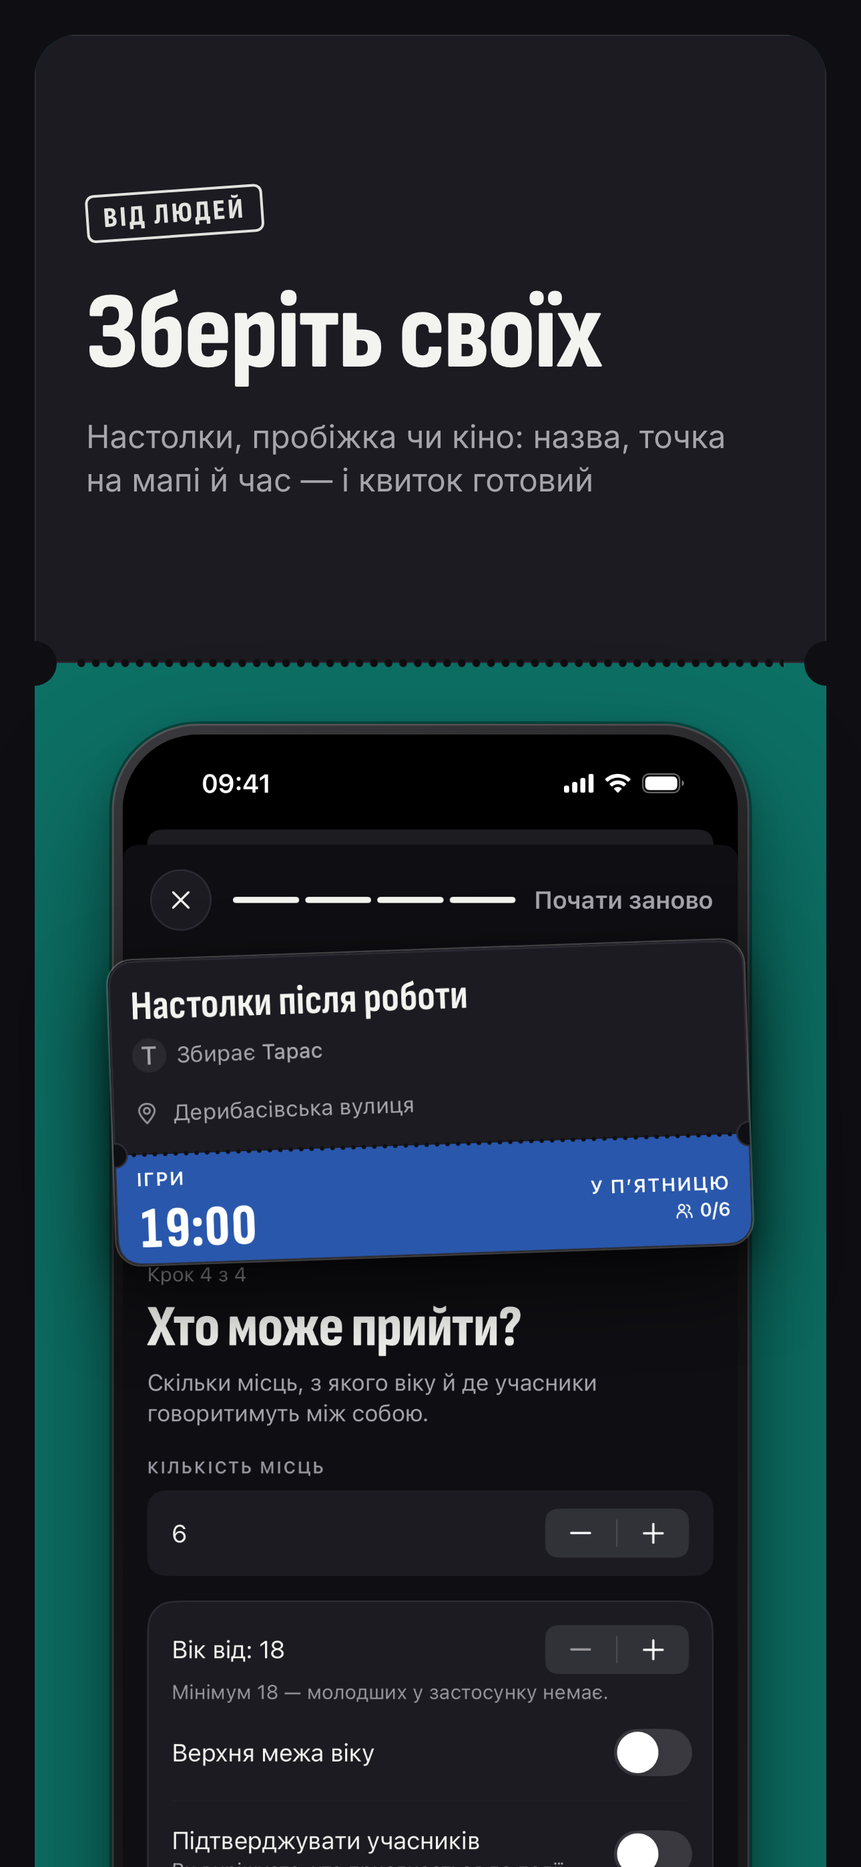
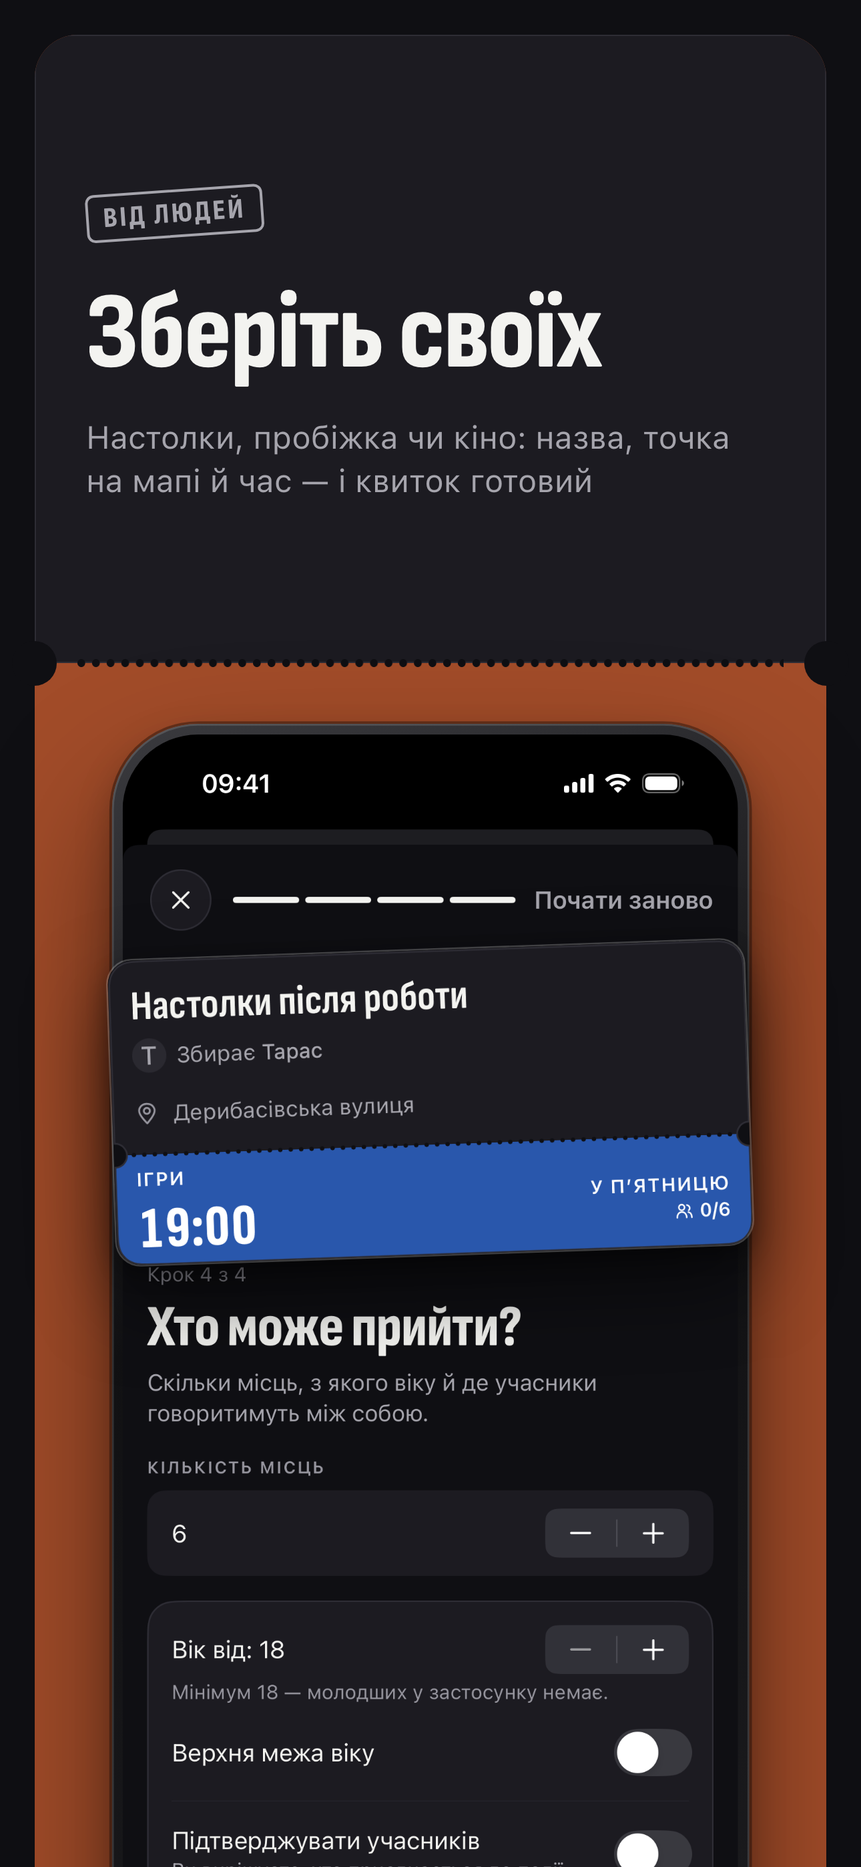
fix(store): слайди сторів за дизайн-системою — шрифт, корінці, штамп
- Підзаголовки системним гротеском платформи, як у застосунку: SF Pro для App Store,
  Roboto (з Android SDK) для Play, замість Inter.
- Корінець слайда — колір жанру показаної події (стендап/екскурсія на мапі, мистецтво
  на головній, музика на безпеці); слайди про людей і банер Play — «Зустрічі».
- Штамп-підпис нейтральним тоном ink-secondary, як TicketStamp. Виняток у DESIGN.md
  уточнено.

diff --git a/tools/store_shots.py b/tools/store_shots.py
@@ -1,8 +1,8 @@
 """Збирає графіку для сторів із сирих екранів у store/screens/.
 
 Світ «Корінець» (DESIGN.md): кожен слайд — квиток на нічному полотні. Угорі, на квитку, штамп і заголовок
-Sofia Sans Condensed; за перфорацією — корінець кольору жанру, з якого виростає телефон, а над ним «винесений»
-шматок справжнього UI. Рендерить headless Chrome. Перезняти екрани після зміни UI (див. store/listing.md),
+Sofia Sans Condensed, підзаголовок системним гротеском платформи; за перфорацією — корінець кольору жанру показаної
+події, з якого виростає телефон, а над ним «винесений» шматок справжнього UI. Рендерить headless Chrome. Перезняти екрани після зміни UI (див. store/listing.md),
 оновити координати в SLIDES і запустити:
 
     python3 tools/store_shots.py
@@ -13,43 +13,49 @@ import tempfile
 
 ROOT = pathlib.Path(__file__).resolve().parent.parent
 SCREENS = ROOT / "store" / "screens"
-FONTS = ROOT / "site" / "fonts"  # Sofia Sans з вшитою українською кирилицею й Inter — ті самі, що на сайті
+FONTS = ROOT / "site" / "fonts"  # Sofia Sans з вшитою українською кирилицею — та сама, що на сайті й у застосунку
+# Решта тексту — системний гротеск платформи, як у застосунку: SF Pro з macOS для App Store, Roboto з Android SDK для Play.
+SYSTEM_FONT = {
+    "ios": pathlib.Path("/System/Library/Fonts/SFNS.ttf"),
+    "and": next(pathlib.Path.home().glob("Library/Android/sdk/platforms/*/data/fonts/Roboto-Regular.ttf"), None),
+}
 ZOOM = 1.12
 CHROME = "/Applications/Google Chrome.app/Contents/MacOS/Google Chrome"
 
 # Сирі розміри екранів: iPhone 16 Pro і Android-емулятор з `wm size 1080x2400`.
 RAW = {"ios": (1206, 2622), "and": (1080, 2400)}
 
-# Перші три слайди видно в пошуку стору — на них головні гачки. stub — колір корінця (`cat-*-stub`), підібраний так,
-# щоб винесений шматок із власним корінцем не зливався з тлом. ios/android: (x0, y0, x1, y1, радіус, нахил) у пікселях
+# Перші три слайди видно в пошуку стору — на них головні гачки. stub — колір корінця (`cat-*-stub`), як у застосунку:
+# жанр події, яку показує слайд (рядок або {платформа: колір}, коли події різні); слайди про людей — «Зустрічі».
+# ios/android: (x0, y0, x1, y1, радіус, нахил) у пікселях
 # сирого екрана — шматок UI, збільшений у ZOOM разів; якщо його місце нижче краю слайда, він піднімається у видиму частину.
 SLIDES = [
     dict(
-        key="map", stub="#6041B1",
+        key="map", stub={"ios": "#8D6A11", "and": "#54701B"},  # стендап / екскурсія на картці
         stamp="Афіша на мапі", title="Є куди.<br>Буде з ким.",
         sub="Концерти, вистави й зустрічі Києва, Львова, Одеси, Дніпра й Харкова — на одній мапі",
         ios=(46, 1906, 1042, 2244, 54, -2), android=(41, 1821, 952, 2115, 47, -2),
     ),
     dict(
-        key="detail", stub="#AC345E",
+        key="detail", stub="#A24C29",
         stamp="Шукаю компанію", title="Не хочете йти самі?",
         sub="На будь-яку подію з афіші можна зібрати невелику компанію. Кого взяти, вирішуєте ви",
         ios=(34, 2098, 1166, 2521, 66, 2), android=(31, 1945, 1046, 2315, 58, 2),
     ),
     dict(
-        key="create", stub="#0D7065",
+        key="create", stub="#A24C29",
         stamp="Від людей", title="Зберіть своїх",
         sub="Настолки, пробіжка чи кіно: назва, точка на мапі й час — і квиток готовий",
         ios=(46, 454, 1158, 986, 42, -2), android=(41, 251, 1037, 716, 37, -2),
     ),
     dict(
-        key="home", stub="#2957AC",
+        key="home", stub="#AC345E",  # «Kyiv Modern-Ballet», мистецтво
         stamp="У місті", title="Куди піти — за хвилину",
         sub="Сотні подій із квиткових сервісів: концерти, стендап, вистави й виставки",
         ios=(46, 483, 1002, 1566, 54, 1.5), android=(41, 240, 970, 1185, 47, 1.5),
     ),
     dict(
-        key="safety", stub="#376E33",
+        key="safety", stub="#6041B1",  # концерт у філармонії
         stamp="Безпека", title="Укриття поруч&nbsp;— ще до виходу",
         sub="Найближчі укриття й час до комендантської біля кожної події. Укриття — поки що для Києва",
         ios=(47, 1297, 1157, 2048, 42, -1.5), android=(41, 1174, 1037, 1833, 37, -1.5),
@@ -65,15 +71,16 @@ TARGETS = [
 ]
 
 
-def _inter(weight, subset, rng):
-    src = (FONTS / f"inter-{subset}-{weight}-normal.woff2").as_uri()
-    return f"@font-face{{font-family:Inter;font-weight:{weight};src:url({src});unicode-range:{rng}}}"
+def system_font_css(plat):
+    font = SYSTEM_FONT[plat]
+    if not font or not font.exists():
+        raise SystemExit(f"Нема системного шрифту для {plat}: {font} (SF Pro — macOS, Roboto — Android SDK platforms/*/data/fonts)")
+    # SF змінний: opsz 17 — текстовий оптичний розмір, як у застосунку для підписів.
+    opsz = ';font-variation-settings:"opsz" 17' if plat == "ios" else ""
+    return f"@font-face{{font-family:Sys;src:url({font.as_uri()})}}p{{font-optical-sizing:none{opsz}}}"
 
 
-FONT_CSS = "".join(
-    _inter(w, sub, rng) for w in (400, 500)
-    for sub, rng in (("cyrillic", "U+0400-045F,U+0490-0491"), ("latin", "U+0000-00FF,U+2000-206F"))
-) + f"""
+FONT_CSS = f"""
 @font-face{{font-family:Cond;font-weight:800;src:url({(FONTS / 'sofia-sans-condensed-800.woff2').as_uri()})}}
 @font-face{{font-family:XCond;font-weight:800;src:url({(FONTS / 'sofia-sans-extra-condensed-800.woff2').as_uri()})}}
 """
@@ -84,7 +91,7 @@ CSS = FONT_CSS + """
 *{margin:0;box-sizing:border-box}
 html{font-size:calc(var(--w)/100)}
 body{width:var(--w);height:var(--h);overflow:hidden;position:relative;background:var(--canvas);
- font-family:Inter,sans-serif;-webkit-font-smoothing:antialiased;color:var(--paper)}
+ font-family:Sys,sans-serif;-webkit-font-smoothing:antialiased;color:var(--paper)}
 .ticket{position:absolute;left:4rem;right:4rem;top:4rem;bottom:-12rem;border-radius:5rem;overflow:hidden;
  background:var(--stub)}
 .main{position:absolute;left:0;right:0;top:0;height:calc(var(--perf) - 4rem);background:var(--surface);
@@ -96,8 +103,8 @@ body{width:var(--w);height:var(--h);overflow:hidden;position:relative;background
 .head{position:absolute;left:10rem;right:10rem;top:4rem;height:calc(var(--perf) - 4rem);display:flex;
  flex-direction:column;justify-content:center;align-items:flex-start}
 .stamp{display:inline-block;font:800 var(--stampsize)/1 Cond,sans-serif;letter-spacing:.09em;text-transform:uppercase;
- color:var(--paper);padding:.9rem 1.7rem .8rem;border:.32rem solid var(--paper);border-radius:1rem;
- transform:rotate(-4deg);transform-origin:left center;opacity:.92;margin-bottom:var(--gap1)}
+ color:var(--ink2);padding:.9rem 1.7rem .8rem;border:.32rem solid var(--ink2);border-radius:1rem;
+ transform:rotate(-4deg);transform-origin:left center;margin-bottom:var(--gap1)}
 h1{font:800 var(--h1)/.94 Cond,sans-serif;letter-spacing:-.012em;text-wrap:balance;max-width:80rem}
 p{font-size:var(--sub);line-height:1.36;margin-top:var(--gap2);color:var(--ink2);text-wrap:pretty;max-width:76rem}
 .phone{position:absolute;left:50%;top:var(--phonetop);width:var(--phonew);transform:translateX(-50%);
@@ -123,7 +130,7 @@ def slide_html(s, plat, w, h):
     bezel = 1.25
     scale = (phone_w - 2 * bezel) / rw  # rem на сирий піксель
     vars_ = {
-        "--w": f"{w}px", "--h": f"{h}px", "--stub": s["stub"], "--perf": f"{perf}rem",
+        "--w": f"{w}px", "--h": f"{h}px", "--stub": s["stub"] if isinstance(s["stub"], str) else s["stub"][plat], "--perf": f"{perf}rem",
         "--stampsize": "3.3rem" if tall else "3rem",
         "--h1": "12.6rem" if tall else "10.4rem",
         "--sub": "3.7rem" if tall else "3.3rem",
@@ -154,7 +161,7 @@ def slide_html(s, plat, w, h):
     )
     style = ";".join(f"{name}:{value}" for name, value in vars_.items())
     hole = '<div class="hole"></div>' if plat == "and" else ""
-    return f"""<!doctype html><html style="{style}"><head><meta charset="utf-8"><style>{CSS}</style></head><body>
+    return f"""<!doctype html><html style="{style}"><head><meta charset="utf-8"><style>{system_font_css(plat)}{CSS}</style></head><body>
 <div class="ticket"><div class="main"></div></div>
 <div class="perf"></div><div class="notch" style="left:1.4rem"></div><div class="notch" style="right:1.4rem"></div>
 <div class="head"><div class="stamp">{s['stamp']}</div><h1>{s['title']}</h1><p>{s['sub']}</p></div>
@@ -163,11 +170,11 @@ def slide_html(s, plat, w, h):
 
 
 # Банер Play — горизонтальний квиток: слоган на квитку, за вертикальною перфорацією корінець із двома телефонами.
-FEATURE = """<!doctype html><html><head><meta charset="utf-8"><style>""" + FONT_CSS + """
+FEATURE = """<!doctype html><html><head><meta charset="utf-8"><style>{sys}""" + FONT_CSS + """
 *{margin:0;box-sizing:border-box}
 body{width:1024px;height:500px;overflow:hidden;position:relative;background:#0F0F13;color:#F3F3F0;
- font-family:Inter,sans-serif;-webkit-font-smoothing:antialiased}
-.ticket{position:absolute;inset:28px;border-radius:26px;overflow:hidden;background:#6041B1}
+ font-family:Sys,sans-serif;-webkit-font-smoothing:antialiased}
+.ticket{position:absolute;inset:28px;border-radius:26px;overflow:hidden;background:#A24C29}
 .main{position:absolute;left:0;top:0;bottom:0;width:560px;background:#1C1B21;box-shadow:0 0 0 1.5px #2E2D35 inset}
 .perf{position:absolute;left:583px;top:62px;bottom:62px;width:9px;
  background:radial-gradient(circle at 4.5px 4.5px,#0F0F13 4px,transparent 4.6px) 0 0/9px 16px repeat-y}
@@ -210,7 +217,8 @@ def main():
         for i, s in enumerate(SLIDES, 1):
             render(slide_html(s, plat, w, h), ROOT / "store" / folder / f"{prefix}{i:02d}.png", w, h)
     feature = (
-        FEATURE.replace("{icon}", (ROOT / "store" / "play" / "icon_512.png").as_uri())
+        FEATURE.replace("{sys}", system_font_css("and"))
+        .replace("{icon}", (ROOT / "store" / "play" / "icon_512.png").as_uri())
         .replace("{a}", (SCREENS / "and_map.png").as_uri())
         .replace("{b}", (SCREENS / "and_home.png").as_uri())
     )

diff --git a/store/listing.md b/store/listing.md
@@ -1,6 +1,6 @@
 # Тексти й графіка для сторів
 
-Графіку в цій теці збирає `python3 tools/store_shots.py` (HTML + headless Chrome, шрифти з `site/fonts/`) із сирих екранів у `screens/`. Світ «Корінець» (DESIGN.md): кожен слайд — квиток на нічному полотні, заголовок Sofia Sans Condensed, за перфорацією корінець кольору жанру з телефоном. П'ять слайдів (мапа зі слоганом, «Шукаю компанію» на деталях, створення зустрічі, «У місті» на головній, безпека) перезняті 2026-10-18 у нічній темі: iPhone 16 Pro Debug-Prod (гість) і Android-емулятор prodDebug 1.3.0 з `wm size 1080x2400`, місто Київ; подія на слайдах 2 і 5 — «Середземноморські мрії» (Національна філармонія, є укриття). Створення знято в dev-збірках без публікації: на iOS текст вставлено через `simctl pbcopy`, на Android чернетку записано в `shared_prefs/event_draft.xml` (кирилицю через adb не ввести); ім'я організатора в обох кадрах доведено до «Тарас» (на iOS акаунт підписаний латиницею). Тестова «Демо для перевірки застосунку» (для App Review) не має потрапляти в кадр. Статус-бар: iOS — `simctl status_bar override --time 09:41`, Android — demo mode (`clock 0941`, `notifications visible false`). Після зміни UI треба перезняти `screens/*.png` з тими самими іменами, за потреби поправити координати винесених шматків у `SLIDES` і запустити скрипт.
+Графіку в цій теці збирає `python3 tools/store_shots.py` (HTML + headless Chrome, шрифти з `site/fonts/`) із сирих екранів у `screens/`. Світ «Корінець» (DESIGN.md): кожен слайд — квиток на нічному полотні, заголовок Sofia Sans Condensed, підзаголовок системним гротеском (SF Pro з macOS для App Store, Roboto з Android SDK `platforms/*/data/fonts` для Play), за перфорацією корінець кольору жанру показаної події з телефоном. П'ять слайдів (мапа зі слоганом, «Шукаю компанію» на деталях, створення зустрічі, «У місті» на головній, безпека) перезняті 2026-10-18 у нічній темі: iPhone 16 Pro Debug-Prod (гість) і Android-емулятор prodDebug 1.3.0 з `wm size 1080x2400`, місто Київ; подія на слайдах 2 і 5 — «Середземноморські мрії» (Національна філармонія, є укриття). Створення знято в dev-збірках без публікації: на iOS текст вставлено через `simctl pbcopy`, на Android чернетку записано в `shared_prefs/event_draft.xml` (кирилицю через adb не ввести); ім'я організатора в обох кадрах доведено до «Тарас» (на iOS акаунт підписаний латиницею). Тестова «Демо для перевірки застосунку» (для App Review) не має потрапляти в кадр. Статус-бар: iOS — `simctl status_bar override --time 09:41`, Android — demo mode (`clock 0941`, `notifications visible false`). Після зміни UI треба перезняти `screens/*.png` з тими самими іменами, за потреби поправити координати винесених шматків у `SLIDES` і запустити скрипт.
 
 ## Файли
 

diff --git a/DESIGN.md b/DESIGN.md
@@ -462,7 +462,7 @@ components:
 ### Ticket Stamp
 Гумовий штамп **стану квитка**: скасовано, ви йдете, черга, запит, лишилось N місць, ви організовуєте. Контур 1,5 тоном, радіус 5, нахил −4°, stamp-шрифт капсом. Тони: участь `success`, терміновість `accent-text`, скасування `danger`, нейтральний `ink-secondary`. На фото — білий контур і текст по чорному затемненню 42 %. Довгий текст стискається до 70 %, а не лягає на кнопку «зберегти».
 
-**Виняток — маркетинг поза застосунком.** На слайдах сторів ([tools/store_shots.py](tools/store_shots.py)) штамп паперовим контуром підписує розділ над заголовком («АФІША НА МАПІ», «БЕЗПЕКА»). Рішення 18.10.2026. У застосунку штамп і далі лише стан.
+**Виняток — маркетинг поза застосунком.** На слайдах сторів ([tools/store_shots.py](tools/store_shots.py)) штамп нейтральним тоном `ink-secondary` підписує розділ над заголовком («АФІША НА МАПІ», «БЕЗПЕКА»). Рішення 18.10.2026. У застосунку штамп і далі лише стан. Решта слайда йде за системою: корінець слайда — `cat-*-stub` жанру показаної події (слайди про людей — «Зустрічі»), підзаголовки — системний гротеск платформи (SF Pro для App Store, Roboto для Play).
 
 ### Reason line і Host line
 - **`ReasonLine`** — чому квиток у стрічці («Для вас», імʼя, за ким стежите, «Від людей»): гліф 12 і caption кольором `ink-tertiary`, один рядок під описом. Причина не штампується.
